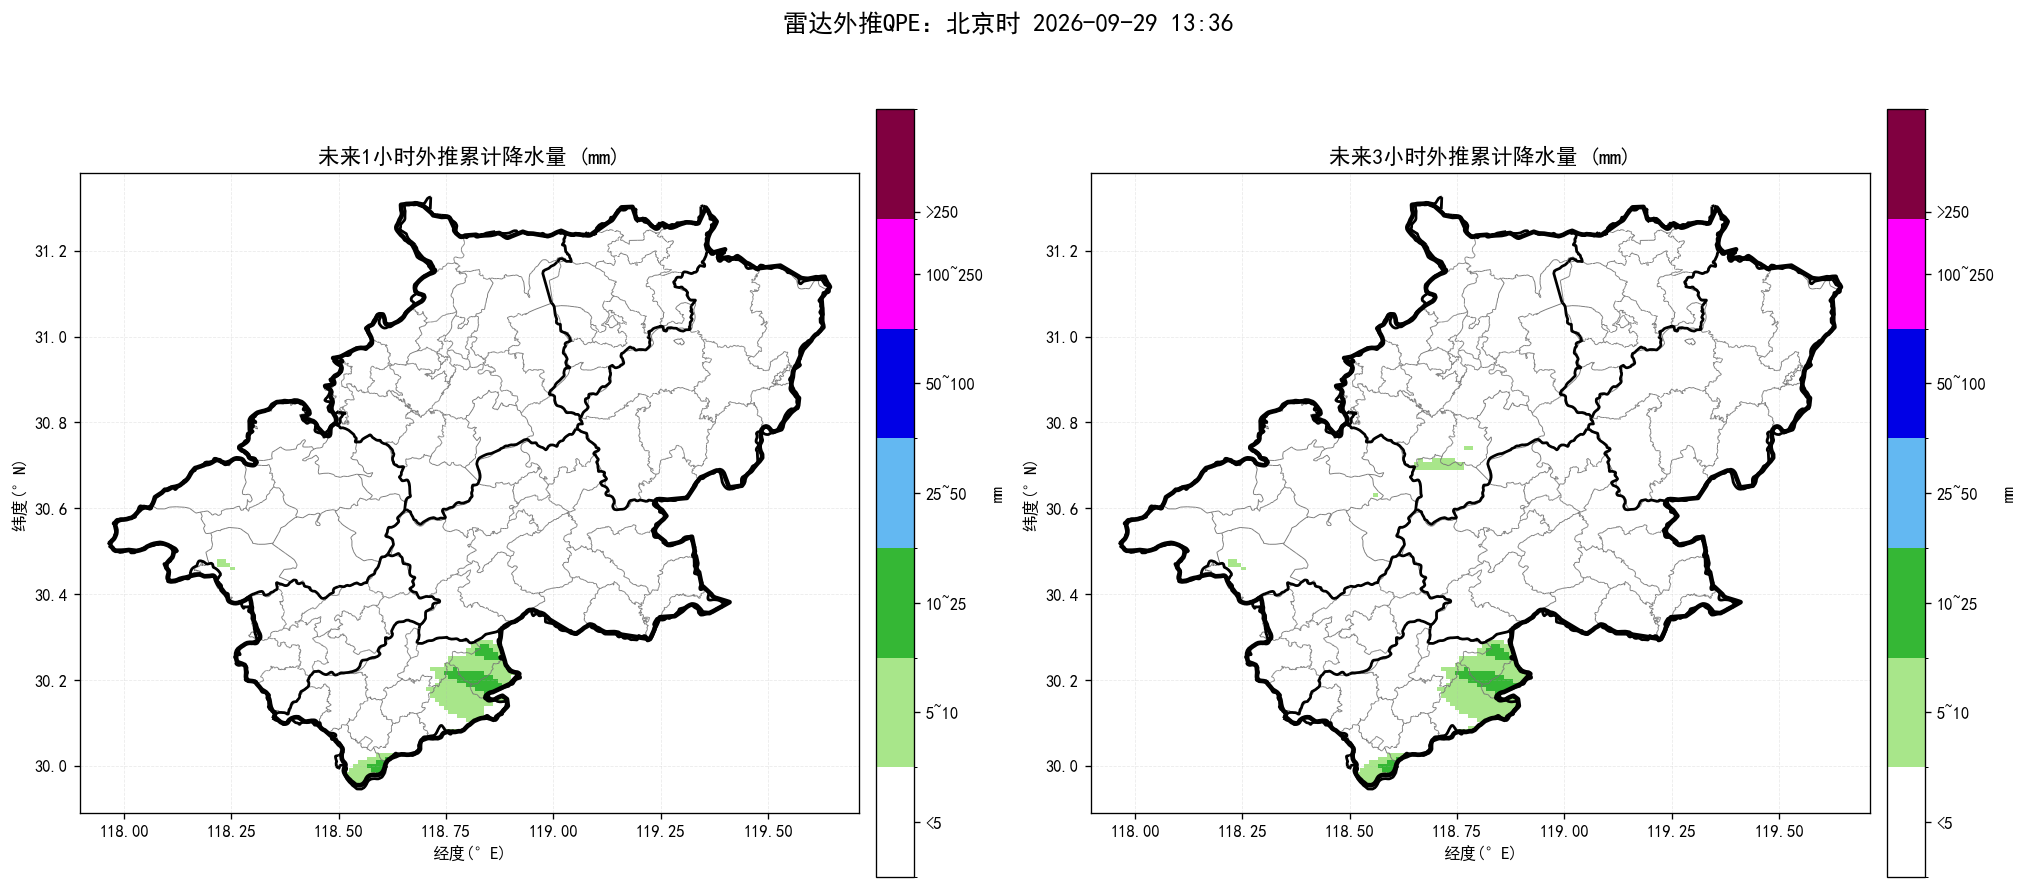
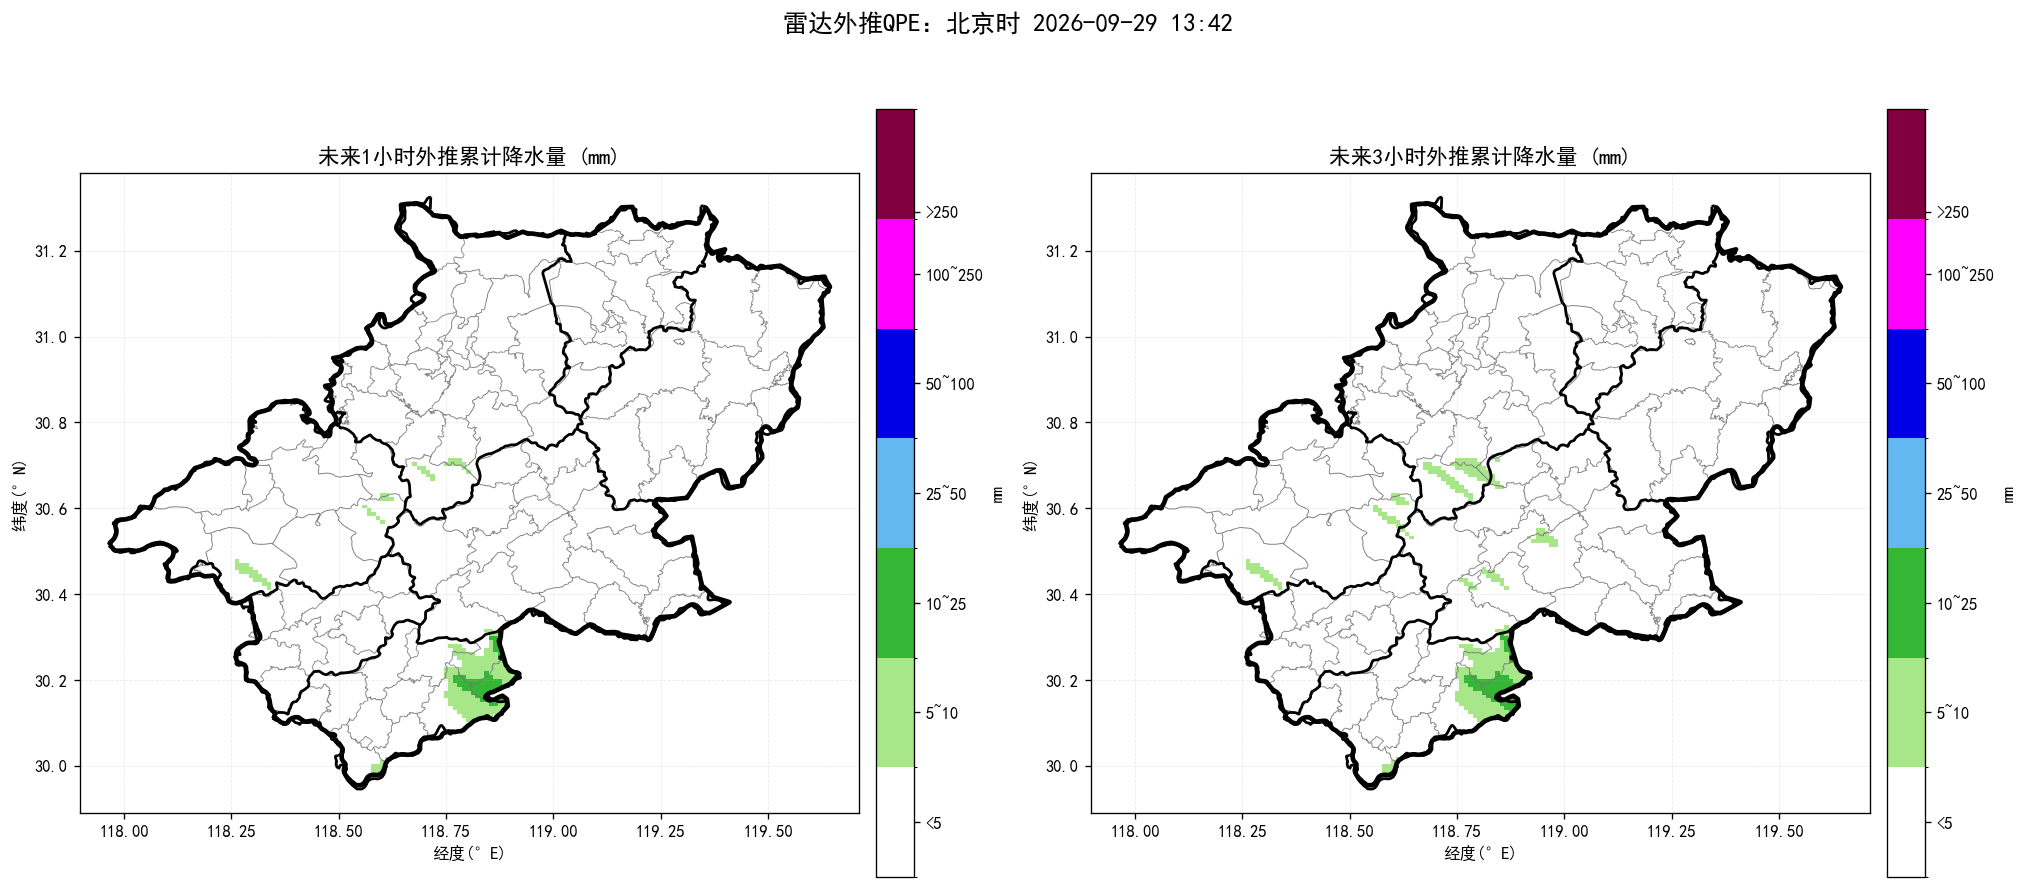
update nowcast products

diff --git a/index.html b/index.html
@@ -14,14 +14,14 @@ img.product{display:block;width:100%;height:auto;margin:10px auto 26px;border:1p
 .footer{font-size:13px;color:#777;text-align:center;margin-top:30px}
 @media(max-width:700px){.sheet{margin:0;padding:18px 15px}.alert-title{font-size:22px}.county-line{font-size:17px}.prob{font-size:18px}}
 </style></head><body><main class="sheet">
-<div class="time">起报时间：北京时 2026-09-29 13:36</div>
+<div class="time">起报时间：北京时 2026-09-29 13:42</div>
 <div class="alert-title">未来一小时降水量超过 20 毫米的乡镇：</div><div class="county-line">无</div>
 <div class="alert-title">未来三小时降水量超过 50 毫米的乡镇：</div><div class="county-line">无</div>
 <div class="alert-title">未来三小时雷暴大风（组合反射率 > 55 dBZ）的乡镇：</div><div class="county-line">无</div>
-<div class="prob">最大降水量概率预估：宣城市范围内未来三小时降水偏小，最大预报约15.3毫米，暂不进行50/80/100毫米概率预估。</div>
-<div class="section-title">未来降水预报图：</div><img class="product auto-refresh-product" data-src="短临降水预报.png" src="短临降水预报.png?v=20260929134249" alt="未来降水预报图">
-<div class="section-title">未来三小时组合反射率图：</div><img class="product auto-refresh-product" data-src="未来3小时组合反射率.png" src="未来3小时组合反射率.png?v=20260929134249" alt="未来三小时组合反射率图">
-<div class="section-title">未来三小时雷暴大风图：</div><img class="product auto-refresh-product" data-src="未来3小时雷暴大风.png" src="未来3小时雷暴大风.png?v=20260929134249" alt="未来三小时雷暴大风图">
+<div class="prob">最大降水量概率预估：宣城市范围内未来三小时降水偏小，最大预报约19.1毫米，暂不进行50/80/100毫米概率预估。</div>
+<div class="section-title">未来降水预报图：</div><img class="product auto-refresh-product" data-src="短临降水预报.png" src="短临降水预报.png?v=20260929134829" alt="未来降水预报图">
+<div class="section-title">未来三小时组合反射率图：</div><img class="product auto-refresh-product" data-src="未来3小时组合反射率.png" src="未来3小时组合反射率.png?v=20260929134829" alt="未来三小时组合反射率图">
+<div class="section-title">未来三小时雷暴大风图：</div><img class="product auto-refresh-product" data-src="未来3小时雷暴大风.png" src="未来3小时雷暴大风.png?v=20260929134829" alt="未来三小时雷暴大风图">
 <div class="footer">三张产品图每 60 秒自动刷新一次；每次请求自动附加新的URL参数以绕过缓存。</div>
 <script>
 (function() {
